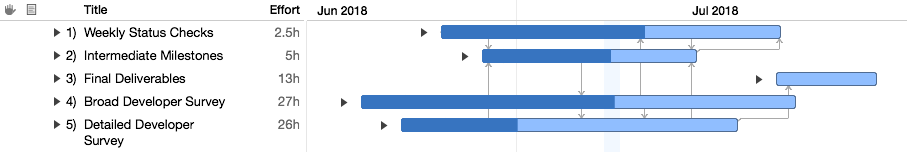
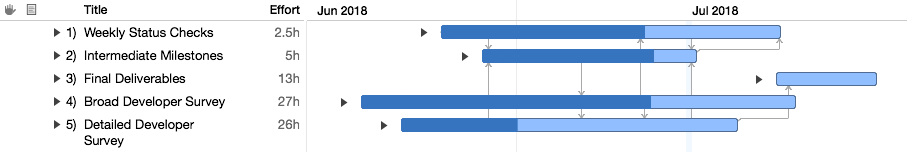
Started working on milestone-2, added survey responses, added diagrams

Changed region(s): [[0.6483, 0.3158, 0.7409, 0.4211], [0.6792, 0.6053, 0.7409, 0.7368]]

diff --git a/milestone-2.md b/milestone-2.md
@@ -1,0 +1,73 @@
+---
+title: "Milestone 2 - Progress Report"
+date: "July 2018"
+author: "Ryan Turner"
+---
+
+# Background
+
+> For creators of technology, educating users is often a challenge. Some creators tend to introduce formal courses, while some others rely on users referencing documentation and trial-and-error. In some, third parties have created learning materials like weblog tutorials or even reference examples. 
+> 
+> When considering the traits of technologies, a pattern appears to emerge: those that are rapidly-changing like augmented reality and artificial intelligence seem to depend on informal education. For these, often documentation and a sample are all the materials provided. Looking at more established topics like desktop computing and service management, the case is quite different. Corresponding certifications exist like CompTIA A+ and ITIL Foundation with accompanying curriculum and a network of professional teachers. The options vary greatly as the technology's maturity level changes.
+> 
+> **How do developers learn rapidly-changing frameworks?**
+
+[@projectproposal]
+
+# Work Status
+
+Consistent with the published [project plan](http://turnrye.com/cs6460-turnrye/project-plan/index.html), this project is on schedule. The questionnaire survey has completed distribution, and some preliminary results have been compiled. The raw survey responses have been uploaded to [the repository](http://turnrye.com/cs6460-turnrye/survey-responses.csv). The next step is to complete the interview surveys.
+
+# Interview Survey
+
+The interview survey asks questions about specific scenarios in which learning occurs. Less focus is given on what tools are used, but more focus is given on the antecedents and consequences of the learning. It will take place over Google Hangouts. Standard interview procedures will be followed [@interviews]. Care is taken to ensure respondents don't need to consult records. This research method will permit judging the quality of response, unlike the questionnaire survey. Additionally, open-ended questions are used to help introduce additional data. The script for this interview is located below in [Survey Script](#survey Script).
+
+## Survey Script
+
+> The following interview survey questions are to be conducted in a video chat with the participant. Open by introducing yourself and reading the statement below.
+>
+> This survey is being conducted as part of a class project on educational technology in graduate studies at the Georgia Institute of Technology. We expect that the interview will take approximately 15 minutes. Please note that your responses may be referenced in our work, however there will be no personally identifiable information shared. This work is considered an informal pilot study, and there is no compensation for participation. Your time is appreciated as we investigate how people learn rapidly changing frameworks.
+>
+> How old are you?
+>
+> What country do you live?
+>
+> What kind of work do you do?
+>
+> Do you have a formal education in software development?
+>
+> Are you currently studying React Native as part of a course?
+>
+> How long have you used React Native?
+>
+> How satisfied are you as a user of the framework?
+>
+> How did you hear about it?
+>
+> How did you initially learn React Native?
+>
+> How soon after learning it did you start using it?
+>
+> What most often leads to you learning about React Native today?
+>
+> Most recently, how have you kept up-to-date with it?
+>
+> What about using a part of the framework that you're unfamiliar with -- how would you learn about it?
+>
+> How would you make time to learn?
+>
+> How do you learn about new features?
+>
+> Do you consider learning React Native to be routine or instead a special activity?
+>
+> Thank you participating in our study. We will share the results of your interview within the next two weeks, and we expect to share the study conclusions within a few months.
+
+# Preliminary Survey Results
+
+![](diagrams/completion-of-unit.png)
+
+![](diagrams/response-to-changes.png)
+
+![](diagrams/tool-usage-and-helpfulness.png)
+
+# References
